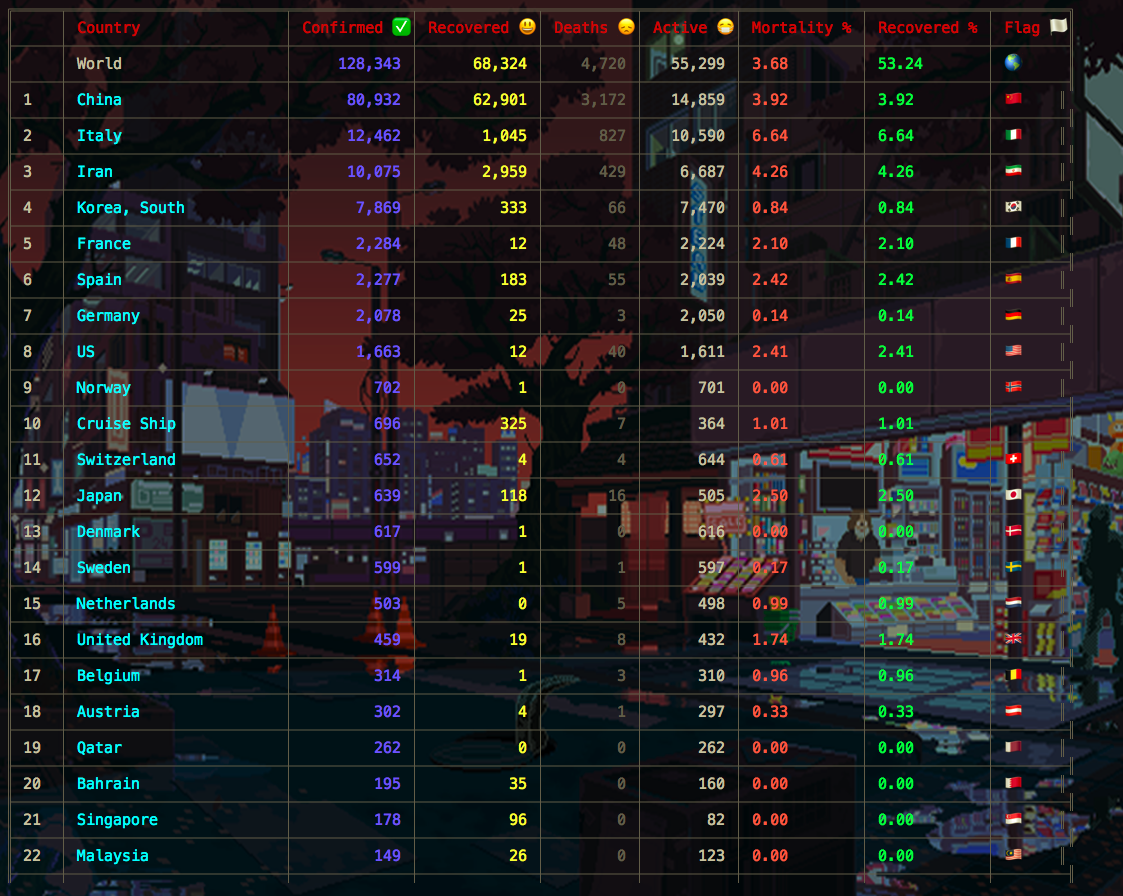
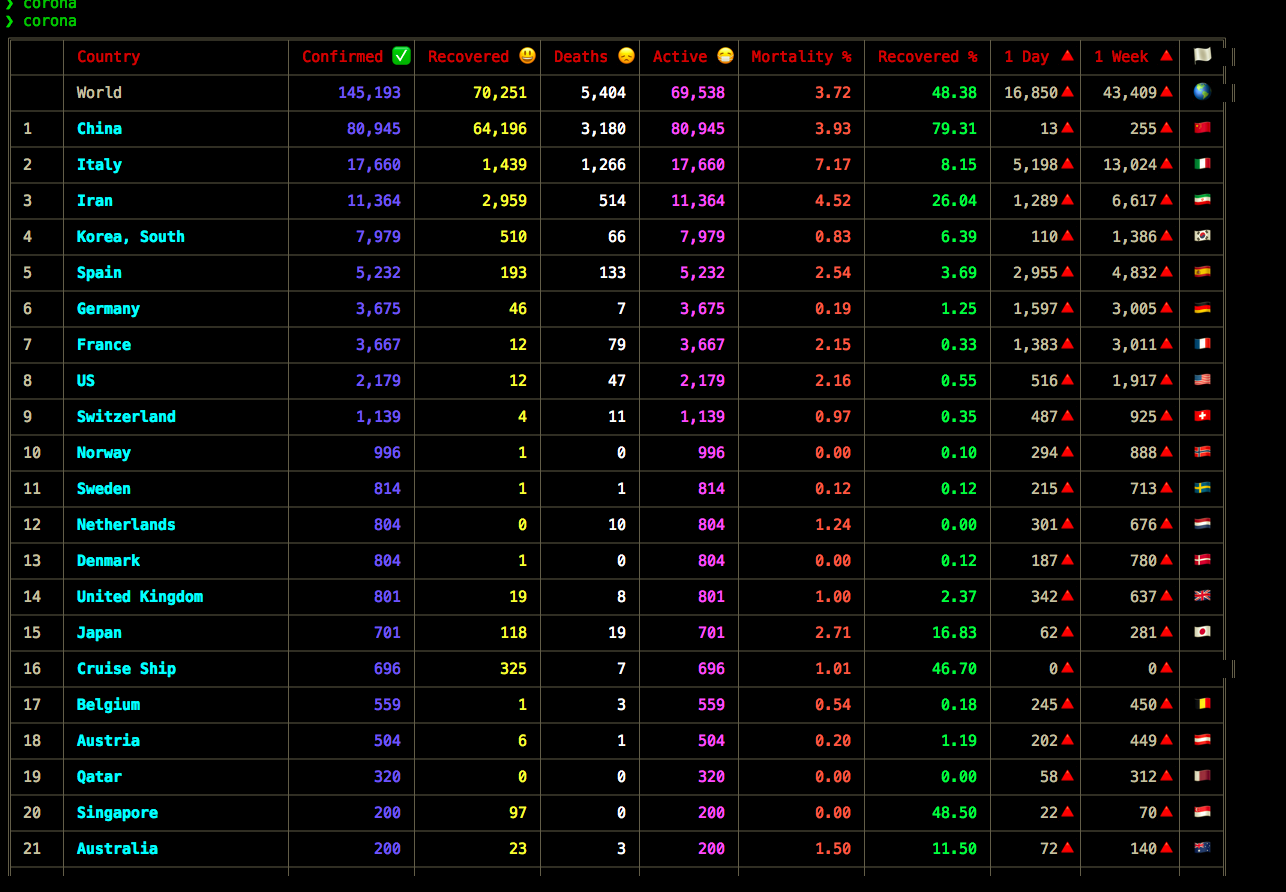
added daily and weekly delta columns

diff --git a/lib/corona.js b/lib/corona.js
@@ -2,53 +2,26 @@ const Table = require('cli-table3');
 const axios = require('axios');
 const _ = require('lodash');
 const chalk = require('chalk');
-const emojiFlags = require('emoji-flags');
-const h = require('humanize-number');
+const helpers = require('./helpers');
+const {
+  getCountry,
+  getConfirmed,
+  getActive,
+  getDeaths,
+  getRecovered,
+  getMortalityPer,
+  getRecoveredPer,
+  getEmoji,
+  calActive,
+  calMortalityPer,
+  calRecoveredPer,
+  getOneDayChange,
+  getOneWeekChange,
+  getRateOfGrowth,
+  getTotalStats,
+} = require('./helpers');
 
-function getConfirmed(confirmed) {
-  return {
-    content: chalk.blueBright(h(confirmed)),
-    hAlign: 'right',
-  };
-}
 
-function getRecoverd(recovered) {
-  return {
-    content: chalk.yellowBright(h(recovered)),
-    hAlign: 'right',
-  };
-}
-
-function getDeaths(deaths) {
-  return {
-    content: chalk.grey(h(deaths)),
-    hAlign: 'right',
-  }
-}
-
-function getActive(confirmed, recovered, deaths) {
-  return {
-    content: h(confirmed - recovered - deaths),
-    hAlign: 'right'
-  }
-}
-
-function getMortalityRate(deaths, confirmed, average = null) {
-  const mortalityRate = ((deaths / confirmed) * 100).toFixed(2);
-  return chalk.redBright(mortalityRate);
-}
-
-function getRecoveredRate(recovered, confirmed, average = null) {
-  const recoveredRate = ((recovered / confirmed) * 100).toFixed(2);
-  return chalk.greenBright(recoveredRate);
-}
-
-function getEmoji(countryCode) {
-  if (countryCode && emojiFlags.countryCode(countryCode)) {
-    return emojiFlags.countryCode(countryCode).emoji;
-  }
-  return '';
-}
 
 function getDataByCountry(confirmed, deaths, recovered) {
   const countryMap = {};
@@ -66,15 +39,46 @@ function getDataByCountry(confirmed, deaths, recovered) {
         confirmed: confirmedMap[mapKey].latest,
         recovered: recoveredMap[mapKey].latest,
         deaths: deathsMap[mapKey].latest,
+        confirmedByDay: helpers.historyObjToArr(confirmedMap[mapKey].history),
+        recoveredByDay: helpers.historyObjToArr(recoveredMap[mapKey].history),
+        deathsByDay: helpers.historyObjToArr(recoveredMap[mapKey].history),
       };
     } else {
       countryMap[countryName].confirmed += confirmedMap[mapKey].latest;
       countryMap[countryName].recovered += recoveredMap[mapKey].latest;
       countryMap[countryName].deaths += deathsMap[mapKey].latest;
+      countryMap[countryName].confirmedByDay = helpers.addArr(
+        countryMap[countryName].confirmedByDay,
+        helpers.historyObjToArr(confirmedMap[mapKey].history)
+      );
+      countryMap[countryName].recoveredByDay = helpers.addArr(
+        countryMap[countryName].recoveredByDay,
+        helpers.historyObjToArr(recoveredMap[mapKey].history)
+      );
+      countryMap[countryName].deathsByDay = helpers.addArr(
+        countryMap[countryName].deathsByDay,
+        helpers.historyObjToArr(deathsMap[mapKey].history)
+      );
     }
   });
-  const countryArr = Object.keys(countryMap).map(key => countryMap[key]);
+  const countryArr = extraStats(
+    Object.keys(countryMap).map(key => countryMap[key])
+  );
   return _.sortBy(countryArr, (o) => -o.confirmed)
+}
+
+function getDateByState(confirmed, deaths, recovered) {
+
+}
+
+function extraStats(dataArr) {
+  return dataArr.map(obj => Object.assign({}, obj,
+    {
+      active: calActive(obj),
+      mortalityPer: calMortalityPer(obj),
+      recoveredPer: calRecoveredPer(obj),
+    })
+  );
 }
 
 exports.getCompleteTable = async () => {
@@ -87,27 +91,34 @@ exports.getCompleteTable = async () => {
     'Active 😷',
     'Mortality %',
     'Recovered %',
-    'Flag 🏳'
+    '1 Day 🔺',
+    '1 Week 🔺',
+    // 'RoG',
+    '🏳',
   ];
   const table = new Table({
     head,
     chars: { 'top': '═' , 'top-mid': '╤' , 'top-left': '╔' , 'top-right': '╗'
          , 'bottom': '═' , 'bottom-mid': '╧' , 'bottom-left': '╚' , 'bottom-right': '╝'
          , 'left': '║' , 'left-mid': '╟' , 'mid': '─' , 'mid-mid': '┼'
-         , 'right': '║' , 'right-mid': '╢' , 'middle': '│' }
+         , 'right': ' ║' , 'right-mid': '╢' , 'middle': '│' }
   });
   const result = await axios('https://coronavirus-tracker-api.herokuapp.com/all');
   const { latest, confirmed, deaths, recovered } = result.data;
   const countryData = getDataByCountry(confirmed, deaths, recovered)
+  const worldStats = getTotalStats(countryData);
   table.push({
     '': [
       'World',
-      getConfirmed(latest.confirmed),
-      getRecoverd(latest.recovered),
-      getDeaths(latest.deaths),
-      getActive(latest.confirmed, latest.recovered, latest.deaths),
-      getMortalityRate(latest.deaths, latest.confirmed),
-      getRecoveredRate(latest.recovered, latest.confirmed),
+      getConfirmed(worldStats.confirmed),
+      getRecovered(worldStats.recovered),
+      getDeaths(worldStats.deaths),
+      getActive(worldStats.active),
+      getMortalityPer(worldStats.mortalityPer),
+      getRecoveredPer(worldStats.recoveredPer),
+      getOneDayChange(worldStats),
+      getOneWeekChange(worldStats),
+      // '',
       '🌎'
     ]
   })
@@ -115,13 +126,16 @@ exports.getCompleteTable = async () => {
   countryData.forEach(cd => {
     const countryEmoji = getEmoji(cd.countryCode);
     const values = [
-      chalk.cyanBright(cd.country),
+      getCountry(cd.country),
       getConfirmed(cd.confirmed),
-      getRecoverd(cd.recovered),
+      getRecovered(cd.recovered),
       getDeaths(cd.deaths),
       getActive(cd.confirmed, cd.recovered, cd.deaths),
-      getMortalityRate(cd.deaths, cd.confirmed),
-      getRecoveredRate(cd.deaths, cd.confirmed),
+      getMortalityPer(cd.mortalityPer),
+      getRecoveredPer(cd.recoveredPer),
+      getOneDayChange(cd),
+      getOneWeekChange(cd),
+      // getRateOfGrowth(cd),
       getEmoji(cd.countryCode),
     ]
     table.push({ [rank++]: values })

diff --git a/lib/helpers.js b/lib/helpers.js
@@ -1,0 +1,146 @@
+const chalk = require('chalk');
+const h = require('humanize-number');
+const emojiFlags = require('emoji-flags');
+const _ = require('lodash');
+const moment = require('moment');
+const e = exports;
+
+e.getCountry = (country) => {
+  return chalk.cyan.bold(country);
+};
+
+e.getState = (state) => {
+  if (state) {
+    return chalk.red(state);
+  }
+  return chalk.red('ALL');
+};
+
+e.getConfirmed = (confirmed) => {
+  return {
+    content: chalk.blueBright(h(confirmed)),
+    hAlign: 'right',
+  };
+};
+
+e.getRecovered = (recovered) => {
+  return {
+    content: chalk.yellowBright(h(recovered)),
+    hAlign: 'right',
+  };
+};
+
+e.getDeaths = (deaths) => {
+  return {
+    content: chalk.whiteBright(h(deaths)),
+    hAlign: 'right',
+  };
+};
+
+e.getActive = (active) => {
+  return {
+    content: chalk.magentaBright(h(active)),
+    hAlign: 'right'
+  };
+};
+
+e.getMortalityPer = (mortalityPer) => ({
+  content: chalk.redBright(mortalityPer),
+  hAlign: 'right',
+});
+
+e.getRecoveredPer = (recoveredPer) => ({
+  content: chalk.greenBright(recoveredPer),
+  hAlign: 'right',
+});
+
+e.getEmoji = (countryCode) => {
+  if (countryCode && emojiFlags.countryCode(countryCode)) {
+    return emojiFlags.countryCode(countryCode).emoji;
+  }
+  return '';
+};
+
+e.calActive = ({ confirmed, recovered, deaths }) => confirmed - (recovered + deaths);
+e.calMortalityPer = ({ confirmed, deaths }) => ((deaths / confirmed) * 100).toFixed(2);
+e.calRecoveredPer = ({ confirmed, recovered }) => ((recovered / confirmed) * 100).toFixed(2);
+
+/**
+   historyObj = {
+    "1/22/20": 0,
+    "1/23/20": 1,
+    "1/24/20": 4,
+    "1/25/20": 7,
+  }
+  Returns sorted arr of above elements - [0, 1, 4, 7]
+ */
+e.historyObjToArr = (historyObj) => {
+  const sortedTimestampArr = _.sortBy(
+    Object.keys(historyObj).map(date => new Date(date).getTime()),
+    Number
+  );
+  return sortedTimestampArr.map(timestamp => {
+    const dateFormatted = moment(timestamp).format('M/D/YY');
+    return historyObj[dateFormatted];
+  });
+};
+
+/**
+ * Given both arr1 and arr2 has same number of elements
+ * Returns -> sum[n] = arr1[n] + arr2[n]
+ *
+*/
+e.addArr = (arr1, arr2) => {
+  if (arr1.length === 0 ) {
+    return arr2;
+  }
+  if (arr2.length === 0) {
+    return arr1;
+  }
+  return arr1.map((val, index) => arr1[index] + arr2[index]);
+};
+
+e.getOneDayChange = ({ confirmedByDay }) => {
+  const present = confirmedByDay.length - 1;
+  const dailyChange = confirmedByDay[present] - confirmedByDay[present - 1];
+  return {
+    content: `${h(dailyChange)}🔺`,
+    hAlign: 'right',
+  };
+};
+
+e.getOneWeekChange = ({ confirmedByDay }) => {
+  const present = confirmedByDay.length - 1;
+  const weeklyChange = confirmedByDay[present] - confirmedByDay[present - 7];
+  return {
+    content: `${h(weeklyChange)}🔺`,
+    hAlign: 'right',
+  };
+};
+
+e.getRateOfGrowth = ( { confirmedByDay }) => {
+  return confirmedByDay[0];
+};
+
+e.getTotalStats = (countryData) => {
+  const worldStats = countryData.reduce((acc, countryObj) => {
+    acc.confirmed += countryObj.confirmed;
+    acc.recovered += countryObj.recovered;
+    acc.deaths += countryObj.deaths;
+    acc.confirmedByDay = e.addArr( acc.confirmedByDay, countryObj.confirmedByDay);
+    acc.recoveredByDay = e.addArr( acc.recoveredByDay, countryObj.recoveredByDay);
+    acc.deathsByDay = e.addArr( acc.deathsByDay, countryObj.deathsByDay);
+    return acc;
+  }, {
+    confirmed: 0,
+    recovered: 0,
+    deaths: 0,
+    confirmedByDay: [],
+    recoveredByDay: [],
+    deathsByDay: [],
+  });
+  worldStats.active = e.calActive(worldStats);
+  worldStats.recoveredPer = e.calRecoveredPer(worldStats);
+  worldStats.mortalityPer = e.calMortalityPer(worldStats);
+  return worldStats;
+}

diff --git a/readme.md b/readme.md
@@ -4,7 +4,7 @@ Track coronavirus from cli
 
 ## Screenshot
 
-<img src="./screenshot.png" width="960" height="720">
+<img src="https://i.ibb.co/wYyB8XG/screenshot.png" width="960" height="720">
 
 ### Prerequisites
 
@@ -32,6 +32,6 @@ corona
 
 ## License
 
-This project is licensed under the MIT License - see the [LICENSE.md](LICENSE.md) file for details
+This project is licensed under the MIT License
 
 
